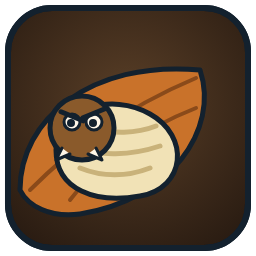
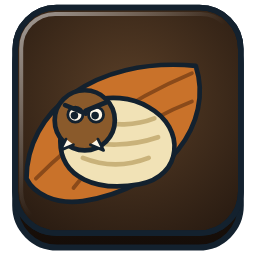
Faux 3D : portraits d'ennemis en blocs (face avant, liseré) et ombres portées
Claude-Session: https://claude.ai/code/session_013EccGmGcBAAqujeLGmWbCi

diff --git a/Design/Enemies/add_depth.py b/Design/Enemies/add_depth.py
@@ -1,0 +1,53 @@
+#!/usr/bin/env python3
+"""Faux-3D pass for the enemy portraits: each <Name>.svg (written by generate_enemies.py) is wrapped in a block look seen from slightly above: the plate
+shrinks a little and a darker front face (the block's thickness) shows under it, with a soft light edge on the top-left. Renders 256 px PNGs with
+Playwright (NODE_PATH=$(npm root -g)) into Assets/Resources/Enemies/<Name>.png (the files the game loads). Run after generate_enemies.py, from this folder."""
+import glob, os, re, subprocess
+
+O = '#13212e'
+OUT_SVG = '3d'
+RES = '../../Assets/Resources/Enemies'
+os.makedirs(OUT_SVG, exist_ok=True)
+
+S = 0.94                      # uniform shrink of the original art
+X = (256 - 256 * S) / 2       # centered horizontally
+PLATE_X, PLATE_W = X + 8 * S, 240 * S
+LIP_Y = 7.5 + 14.5            # the front face sits this much lower than the plate
+
+def wrap(inner):
+    return ('<svg xmlns="http://www.w3.org/2000/svg" viewBox="0 0 256 256" width="256" height="256"><defs>'
+            '<linearGradient id="hl" x1="0" y1="0" x2="1" y2="1"><stop offset="0" stop-color="#fff" stop-opacity="0.55"/><stop offset="0.5" stop-color="#fff" stop-opacity="0"/></linearGradient>'
+            '<linearGradient id="front" x1="0" y1="0" x2="0" y2="1"><stop offset="0" stop-color="#2a1c12"/><stop offset="1" stop-color="#150d08"/></linearGradient></defs>'
+            '<rect x="%.1f" y="%.1f" width="%.1f" height="%.1f" rx="42" fill="url(#front)" stroke="%s" stroke-width="6"/>'
+            '<svg x="%.2f" y="0" width="%.2f" height="%.2f" viewBox="0 0 256 256">%s</svg>'
+            '<rect x="%.1f" y="14" width="%.1f" height="%.1f" rx="34" fill="none" stroke="url(#hl)" stroke-width="4"/></svg>'
+            ) % (PLATE_X, LIP_Y, PLATE_W, PLATE_W, O, X, 256 * S, 256 * S, inner, PLATE_X + 6, PLATE_W - 12, PLATE_W - 14)
+
+names = []
+for path in sorted(glob.glob('*.svg')):
+    name = os.path.splitext(path)[0]
+    src = open(path).read()
+    m = re.search(r'<svg[^>]*>(.*)</svg>', src, re.S)
+    if not m or not os.path.exists('%s/%s.png' % (RES, name)):
+        continue
+    open('%s/%s.svg' % (OUT_SVG, name), 'w').write(wrap(m.group(1)))
+    names.append(name)
+
+js = """
+const { chromium } = require('playwright');
+const fs = require('fs');
+(async () => {
+  const b = await chromium.launch();
+  const p = await b.newPage({ viewport: { width: 256, height: 256 }, deviceScaleFactor: 1 });
+  for (const name of %s) {
+    await p.setContent('<html><body style="margin:0;background:transparent">' + fs.readFileSync('%s/' + name + '.svg', 'utf8') + '</body></html>');
+    await p.screenshot({ path: '%s/' + name + '.png', omitBackground: true, clip: { x: 0, y: 0, width: 256, height: 256 } });
+  }
+  await b.close();
+})();
+""" % (names, OUT_SVG, RES)
+open('_render.js', 'w').write(js)
+env = dict(os.environ, NODE_PATH=subprocess.check_output(['npm', 'root', '-g']).decode().strip())
+subprocess.run(['node', '_render.js'], check=True, env=env)
+os.remove('_render.js')
+print('wrote', len(names), 'portraits')

diff --git a/Assets/Scripts/Presentation/HudView.cs b/Assets/Scripts/Presentation/HudView.cs
@@ -406,6 +406,8 @@ namespace Contigu.Presentation
                 var icon = UIFactory.CreatePanel(iconBackground.transform, "EnemyIcon" + i, Color.white);
                 icon.preserveAspect = true;
                 UIFactory.StretchFull(icon.rectTransform);
+                // Faux 3D: the portrait is a block (see Design/Enemies/add_depth.py); a soft shadow under it sets it down on the board.
+                UIFactory.AddDropShadow(icon, 5f, 0.45f);
 
                 // Hover tooltip with this enemy's On-Shuffle effect — Init'd fresh each SetEncounter call below.
                 var iconView = icon.gameObject.AddComponent<EnemyIconView>();

diff --git a/Assets/Scripts/Presentation/ShopView.cs b/Assets/Scripts/Presentation/ShopView.cs
@@ -940,6 +940,7 @@ namespace Contigu.Presentation
                 var icon = UIFactory.CreatePanel(slot, "Sprite" + i, Color.white);
                 icon.preserveAspect = true;
                 UIFactory.StretchFull(icon.rectTransform);
+                UIFactory.AddDropShadow(icon, 4f, 0.4f);
                 icon.sprite = HudView.EnemyIconSprite(upcoming[i]);
 
                 // Same hover-tooltip component as HudView's own enemy band (see EnemyIconView), just fed

diff --git a/docs/DECISIONS.md b/docs/DECISIONS.md
@@ -9569,3 +9569,6 @@ Ceci couvre l'intégralité des retours de playtest de cette liste.
 
 ## 2026-11-12 — « Pollen » devient l'icône dans les autres textes
 - `InlineIconLabel` (déjà employé pour les effets de météo) est appliqué à l'étiquette de description de **toutes les infobulles** (`TooltipView` : fertilizers, sprouts, traits, tuiles, météo, croissance…), à la description des **cartes d'upgrade** (`UpgradeCardFactory`) et à celle des **cartes de fertilizer** (`ModifierCardFactory`). Une infobulle réaffiche son texte à chaque image tant qu'elle est survolée : `InlineIconLabel.Set` ne fait rien quand le texte n'a pas changé, pour que l'icône ne clignote pas. Pas appliqué : les textes courts de la boutique (prix), les puces « +Pollen » des popups (déjà une icône), le tutoriel. Non vérifié dans Unity : une infobulle calcule sa hauteur avec les blancs (six espaces insécables) à la place du mot.
+
+## 2026-11-12 — Faux 3D : les ennemis
+- Les portraits d'ennemis (`Assets/Resources/Enemies/*.png`, 17 fichiers dont Thief enragé) deviennent des blocs vus d'un peu au-dessus : `Design/Enemies/add_depth.py` enveloppe chaque SVG (écrit par `generate_enemies.py`, à lancer avant) dans une face avant plus sombre (l'épaisseur) sous la plaque réduite à 94 %, avec un liseré clair en haut à gauche ; rendu Playwright en 256 px. Une ombre portée douce (`UIFactory.AddDropShadow`) les pose sur le plateau, dans la bande d'ennemis du haut et dans « Coming up ». Seul le dessin de la plaque change, les créatures ne bougent pas. Non vérifié dans Unity (seule une planche de quatre portraits a été vue) : la hauteur de la lèvre peut faire paraître l'icône plus petite et décaler la barre de PV qui est dessous.
